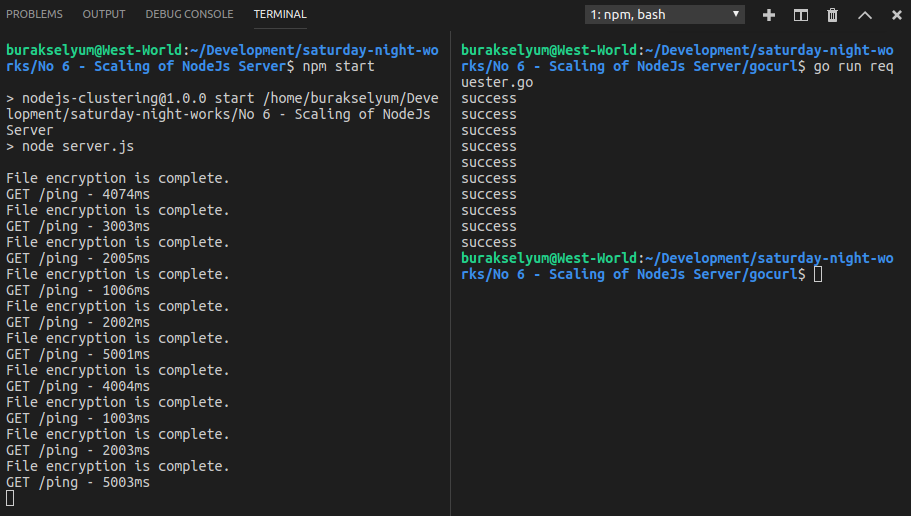
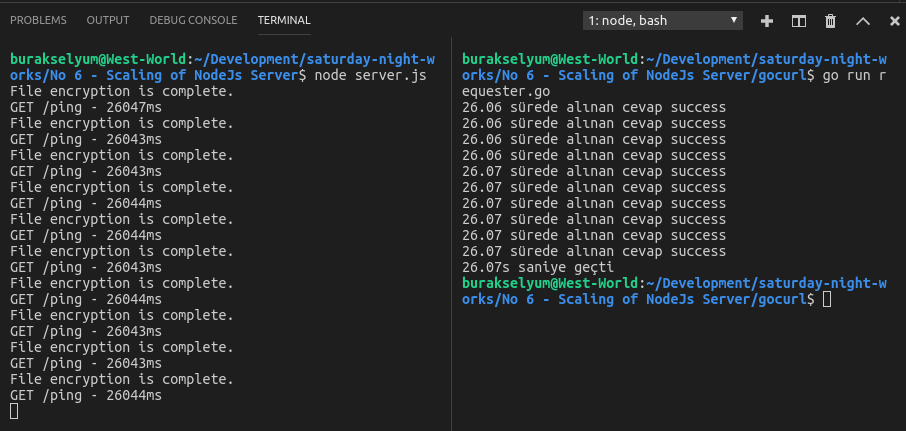
cluster server kod örneği eklendi

Changed region(s): [[0.0, 0.0, 1.0, 0.9652]]

diff --git a/No 6 - Scaling of NodeJs Server/sclsrv.js b/No 6 - Scaling of NodeJs Server/sclsrv.js
@@ -1,0 +1,52 @@
+const cluster = require('cluster');
+const { cpus } = require('os')
+const isMaster = cluster.isMaster
+const numOfWorkers = cpus().length
+
+// Master process'temiyiz?
+if (isMaster) {
+    console.log(`alt process'ler oluşturulacak. Toplam ${numOfWorkers} çekirdek varmış`)
+    let workers = []
+    for (let i = 0; i < numOfWorkers; i++) {
+        workers.push(cluster.fork()) // her bir çekirdek için bir işçi process oluştur
+    }
+
+    // işçi process'lerin etkinleşme ve sonlanma olaylarını takip et
+    cluster.on('online', (worker) => console.log(`${worker.process.pid} etkinleştirildi`))
+    cluster.on('exit', (worker, exitCode) => {
+        console.log(`${worker.process.pid} işini bitirdi. Çıkış kodu, ${exitCode}`)
+        console.log(`Yeni bir işçi oluşturulacak`)
+        cluster.fork()
+    })
+} else { // Eğer komutan process değilse işçidir
+
+    // Her bir işçi tek başına bir Koa sunucusuymuş gibi kullanılır
+    var enigma = require('./worker');
+    var Koa = require('koa');
+    var Router = require('koa-router');
+    var router = new Router();
+    var app = new Koa();
+
+    router.get('/', async context => context.body = `Process ID ${process.pid} is here`)
+        .get('/ping', async context => {
+            console.log(`şu an ${process.pid} işçisi çalışıyor`)
+            const result = await enigma.encrypt('README.md', 'README.mdx');
+            context.body = result;
+        })
+        .get('/pong', async context => {
+            const result = await enigma.decrypt('README.mdx', 'benioku.md');
+            context.body = result;
+        });
+
+    app.use(async (context, next) => {
+        await next();
+        var responseTime = context.response.get('X-Response-Time');
+        console.log(`${context.method} ${context.url} - ${responseTime} -Pid:${process.pid}`);
+    }).use(async (context, next) => {
+        var startTime = Date.now();
+        await next();
+        context.set('X-Response-Time', `${Date.now() - startTime}ms`);
+    })
+        .use(router.routes())
+        .listen(4444);
+}

diff --git a/No 6 - Scaling of NodeJs Server/gocurl/requester.go b/No 6 - Scaling of NodeJs Server/gocurl/requester.go
@@ -4,22 +4,25 @@ import (
 	"fmt"
 	"io/ioutil"
 	"net/http"
+	"time"
 )
 
+func get(url string, ch chan<- string) {
+	start := time.Now()
+	resp, _ := http.Get(url)
+	body, _ := ioutil.ReadAll(resp.Body)
+	ch <- fmt.Sprintf("%.2f sürede alınan cevap %s", time.Since(start).Seconds(), body)
+}
+
 func main() {
-	//test edeceğimiz url
-	url := "http://localhost:4444/ping"
-	// request'i hazırladık. HTTP Get talebi yapılacak. Body boş gidiyor
-	req, _ := http.NewRequest("GET", url, nil)
+	start := time.Now()
+	ch := make(chan string)
+	for i := 0; i < 10; i++ {
+		go get("http://localhost:4444/ping", ch)
+	}
 
 	for i := 0; i < 10; i++ {
-		// request'i yapıp cevabı aldık
-		res, _ := http.DefaultClient.Do(req)
-		// response ile gelen mesajın içeriğini oku
-		body, _ := ioutil.ReadAll(res.Body)
-		// ekrana bas
-		fmt.Println(string(body))
-		// aktif olan dinleyiciyi kapat
-		res.Body.Close()
+		fmt.Println(<-ch)
 	}
+	fmt.Printf("%.2fs saniye geçti\n", time.Since(start).Seconds())
 }

diff --git a/No 6 - Scaling of NodeJs Server/README.md b/No 6 - Scaling of NodeJs Server/README.md
@@ -11,10 +11,10 @@ Gerçek hayat senaryosuna göre kullanıcı servise göndereceği bir HTTP Get t
 ## Gerekli Paketler
 
 ```
-npm install --save-dev koa koa-router cryptr sleep
+npm install --save-dev koa koa-router cryptr sleep cluster
 ```
 
-koa ve koa-router web sunucu tarafı için, cryptr ise dosya içeriğini AES-256 tipinde şifrelemek için kullanılır. sleep modülü tuzak kurup dosya şifreleme işlemini rastgele uzatmak içindir.
+koa ve koa-router web sunucu tarafı için, cryptr ise dosya içeriğini AES-256 tipinde şifrelemek için kullanılır. sleep modülü tuzak kurup dosya şifreleme işlemini rastgele uzatmak içindir. cluster ikinci kısımda yapılacak ölçekleme için gerekli pakettir.
 
 ## Aşamalarım
 
@@ -38,10 +38,10 @@ taleplerini kullanabiliriz. encrypt ve decrypt adlarını yazmak zor geldiğinde
 
 ## Testçi
 
-Arka arkaya n sayıda talep göndermek için GoLang ile yazılmış basit bir program kullanılıyor. Önce
+Arka arkaya n sayıda talebi eş zamanlı olarak göndermek için GoLang ile yazılmış basit bir program kullanılıyor. Önce
 
 ```
-npm start
+node server.js
 ```
 
 ile servis tarafı çalıştırıp sonrasında gocurl klasöründe terminalden aşağıdaki komut verilerek
@@ -54,4 +54,22 @@ arka arkaya 10 talebin gönderilmesi testi yapılabilir.
 
 ![credit_1.png](credit_1.png)
 
+>Tüm işlemler aynı anda aynı toplam sürede istemciye ulaşmıştır.
+
 Bundan sonra scaled-server.js ile denemeler başlatılabilir.
+
+Önce
+
+```
+node sclsrv.js
+```
+
+ve ardından yine
+
+```
+go run requester.go
+```
+
+![credit_2.png](credit_2.png)
+
+Şimdi eş zamanlı gelen taleplerin çekirdekler arasında bölüştürüldüğünü görüyoruz. Her ne kadar ölçeklediysek de kurgu istediğim gibi olmadı. Talep sayısı yükseldikçe cevap süreleri şişiyor :/ Biraz daha çalışmam lazım.
